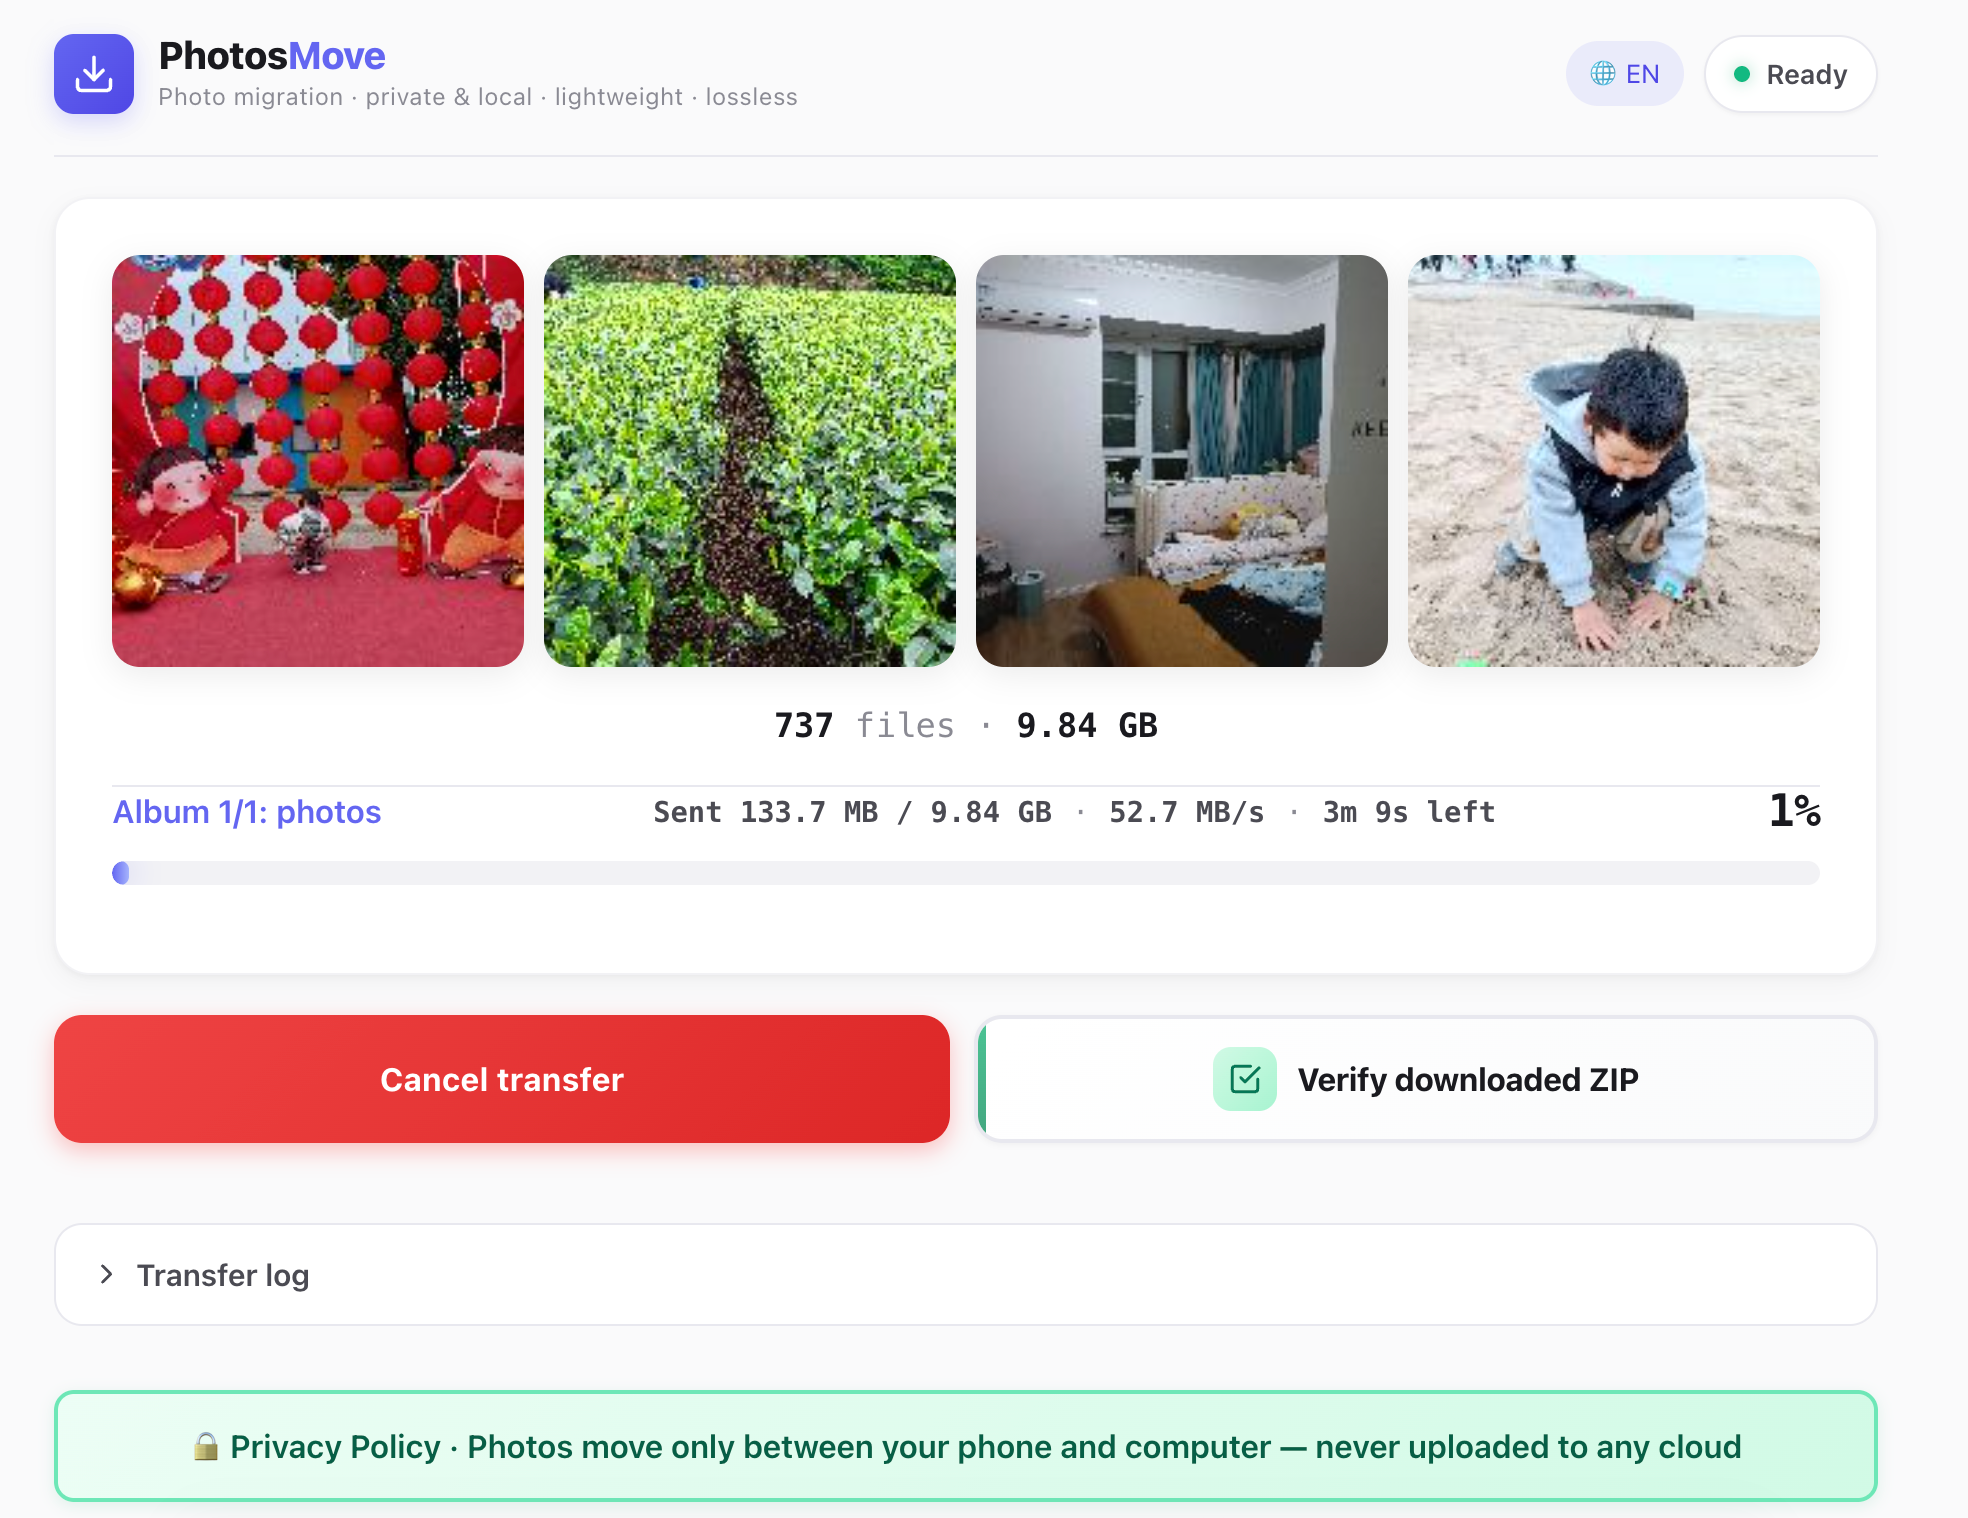
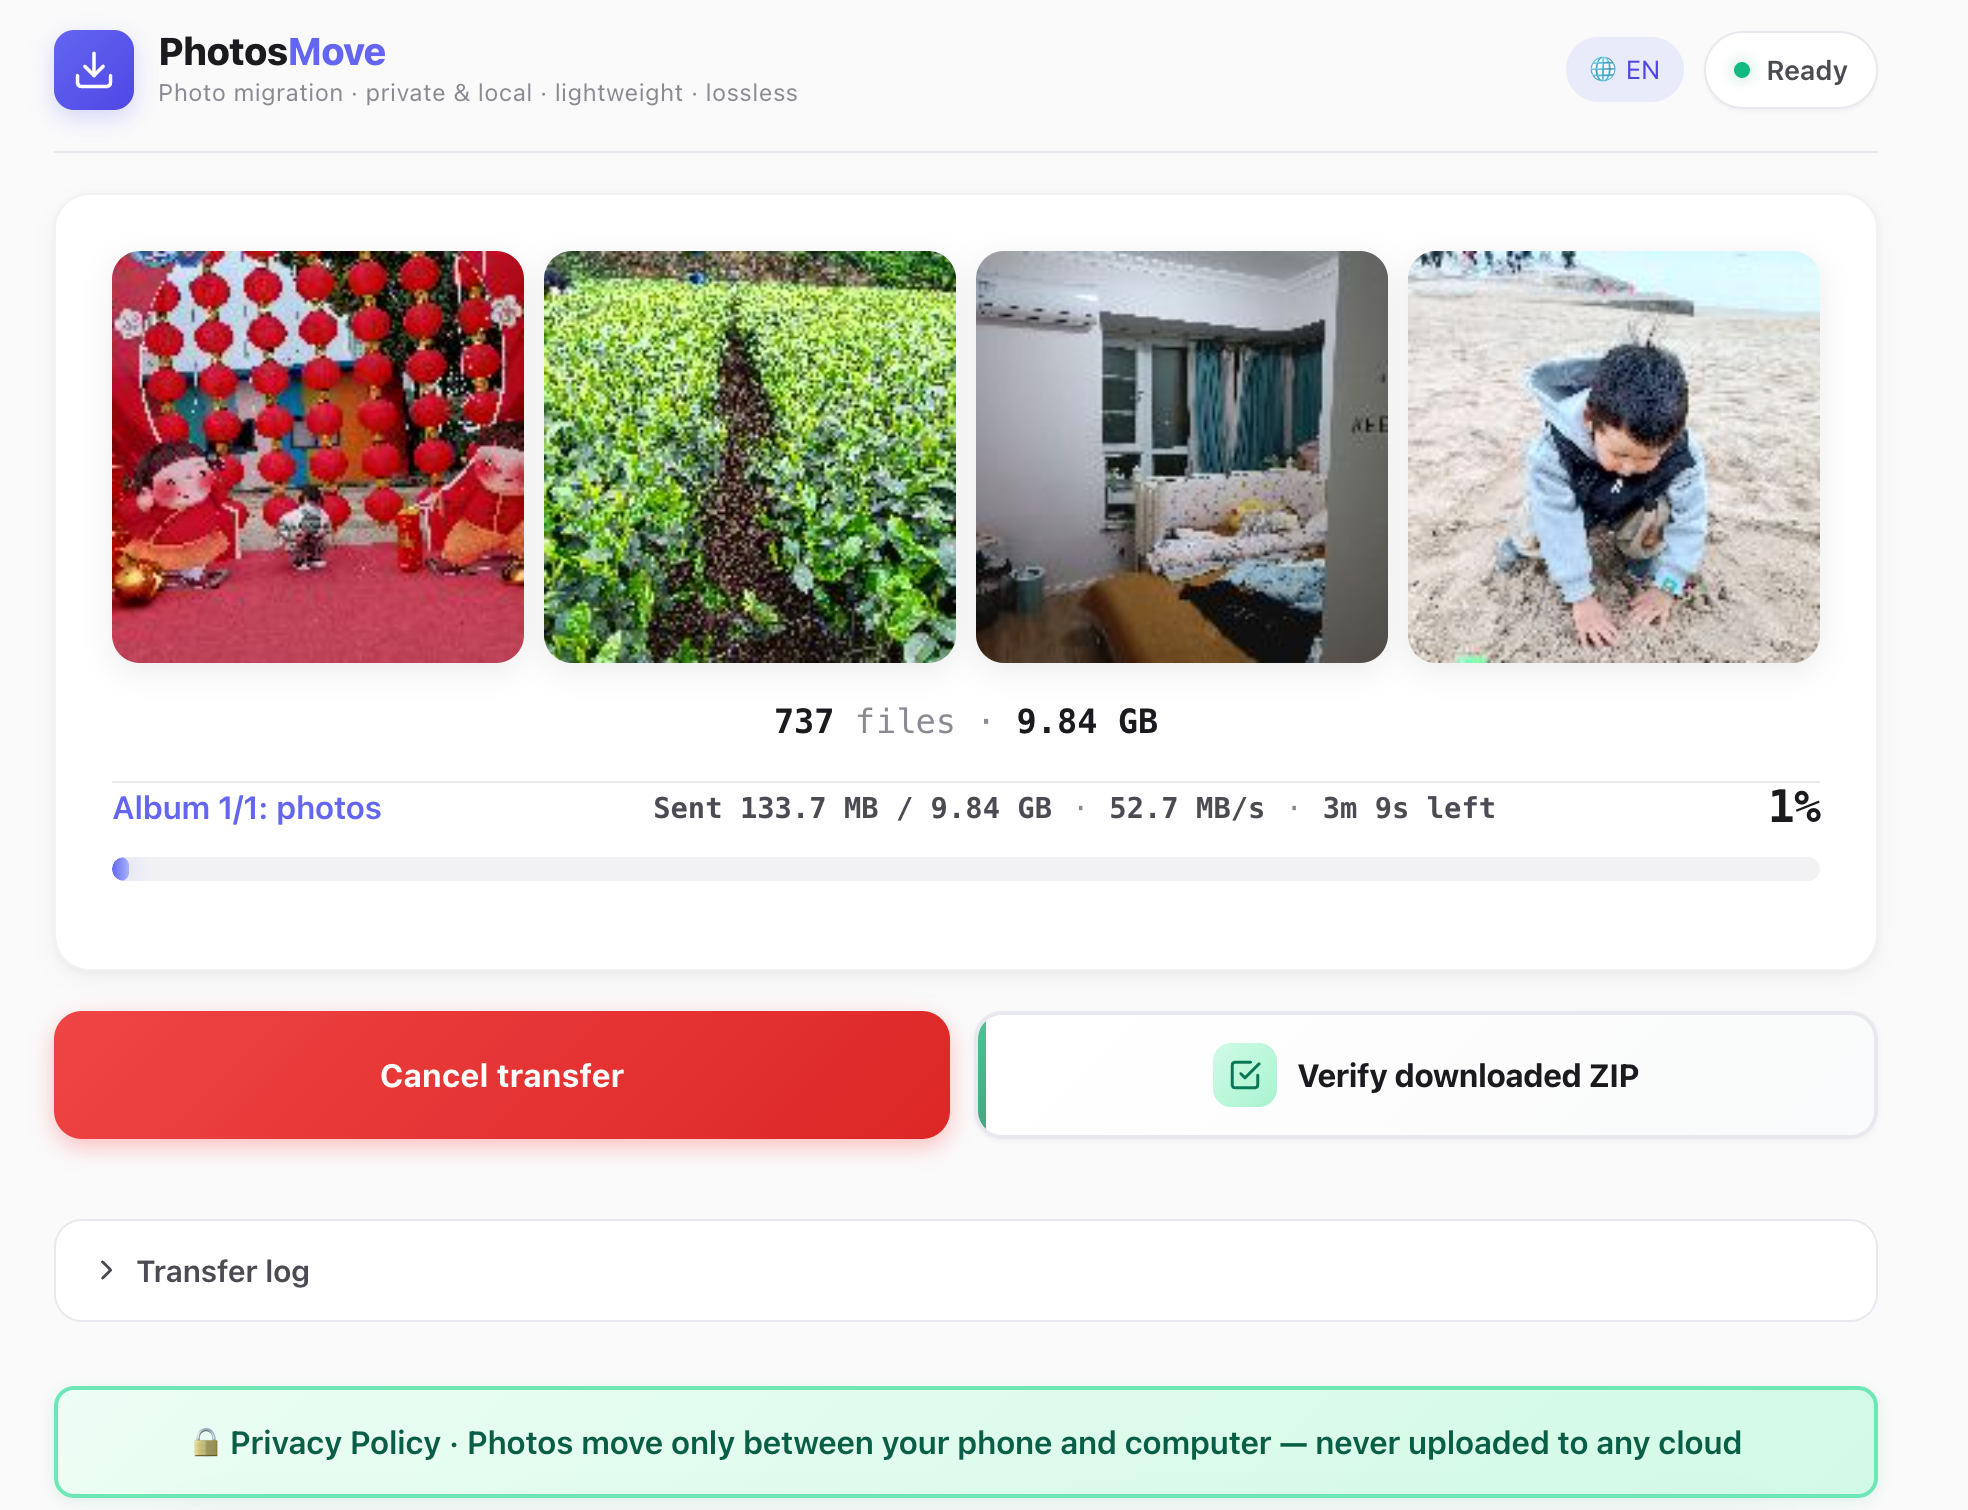
chore: crop screenshots to uniform 1968x1510, bust cache to v3
All six web screenshots now share identical dimensions so they render
at the same width under fixed-height display.

diff --git a/README.md b/README.md
@@ -31,21 +31,21 @@ Phone runs an HTTP server (Go + Android foreground service) → PC browser conne
 **On the phone** — start the server with one tap:
 
 <p align="center">
-  <img src="store/screenshots/04-app-running-en.png?v=2" alt="App running on phone" height="520">
+  <img src="store/screenshots/04-app-running-en.png?v=3" alt="App running on phone" height="520">
 </p>
 
 **In the browser** — connect and enter the PIN:
 
 <p align="center">
-  <img src="store/screenshots/02-web-pin-en.png?v=2" alt="PIN auth" height="430">
+  <img src="store/screenshots/02-web-pin-en.png?v=3" alt="PIN auth" height="430">
 </p>
 
 **Download and verify** — streaming ZIP, then SHA-256 check:
 
 <p align="center">
-  <img src="store/screenshots/04-web-download-en.png?v=2" alt="Downloading" height="430">
+  <img src="store/screenshots/04-web-download-en.png?v=3" alt="Downloading" height="430">
   &nbsp;
-  <img src="store/screenshots/05-web-verify-en.png?v=2" alt="Integrity check" height="430">
+  <img src="store/screenshots/05-web-verify-en.png?v=3" alt="Integrity check" height="430">
 </p>
 
 ## Compared to alternatives
